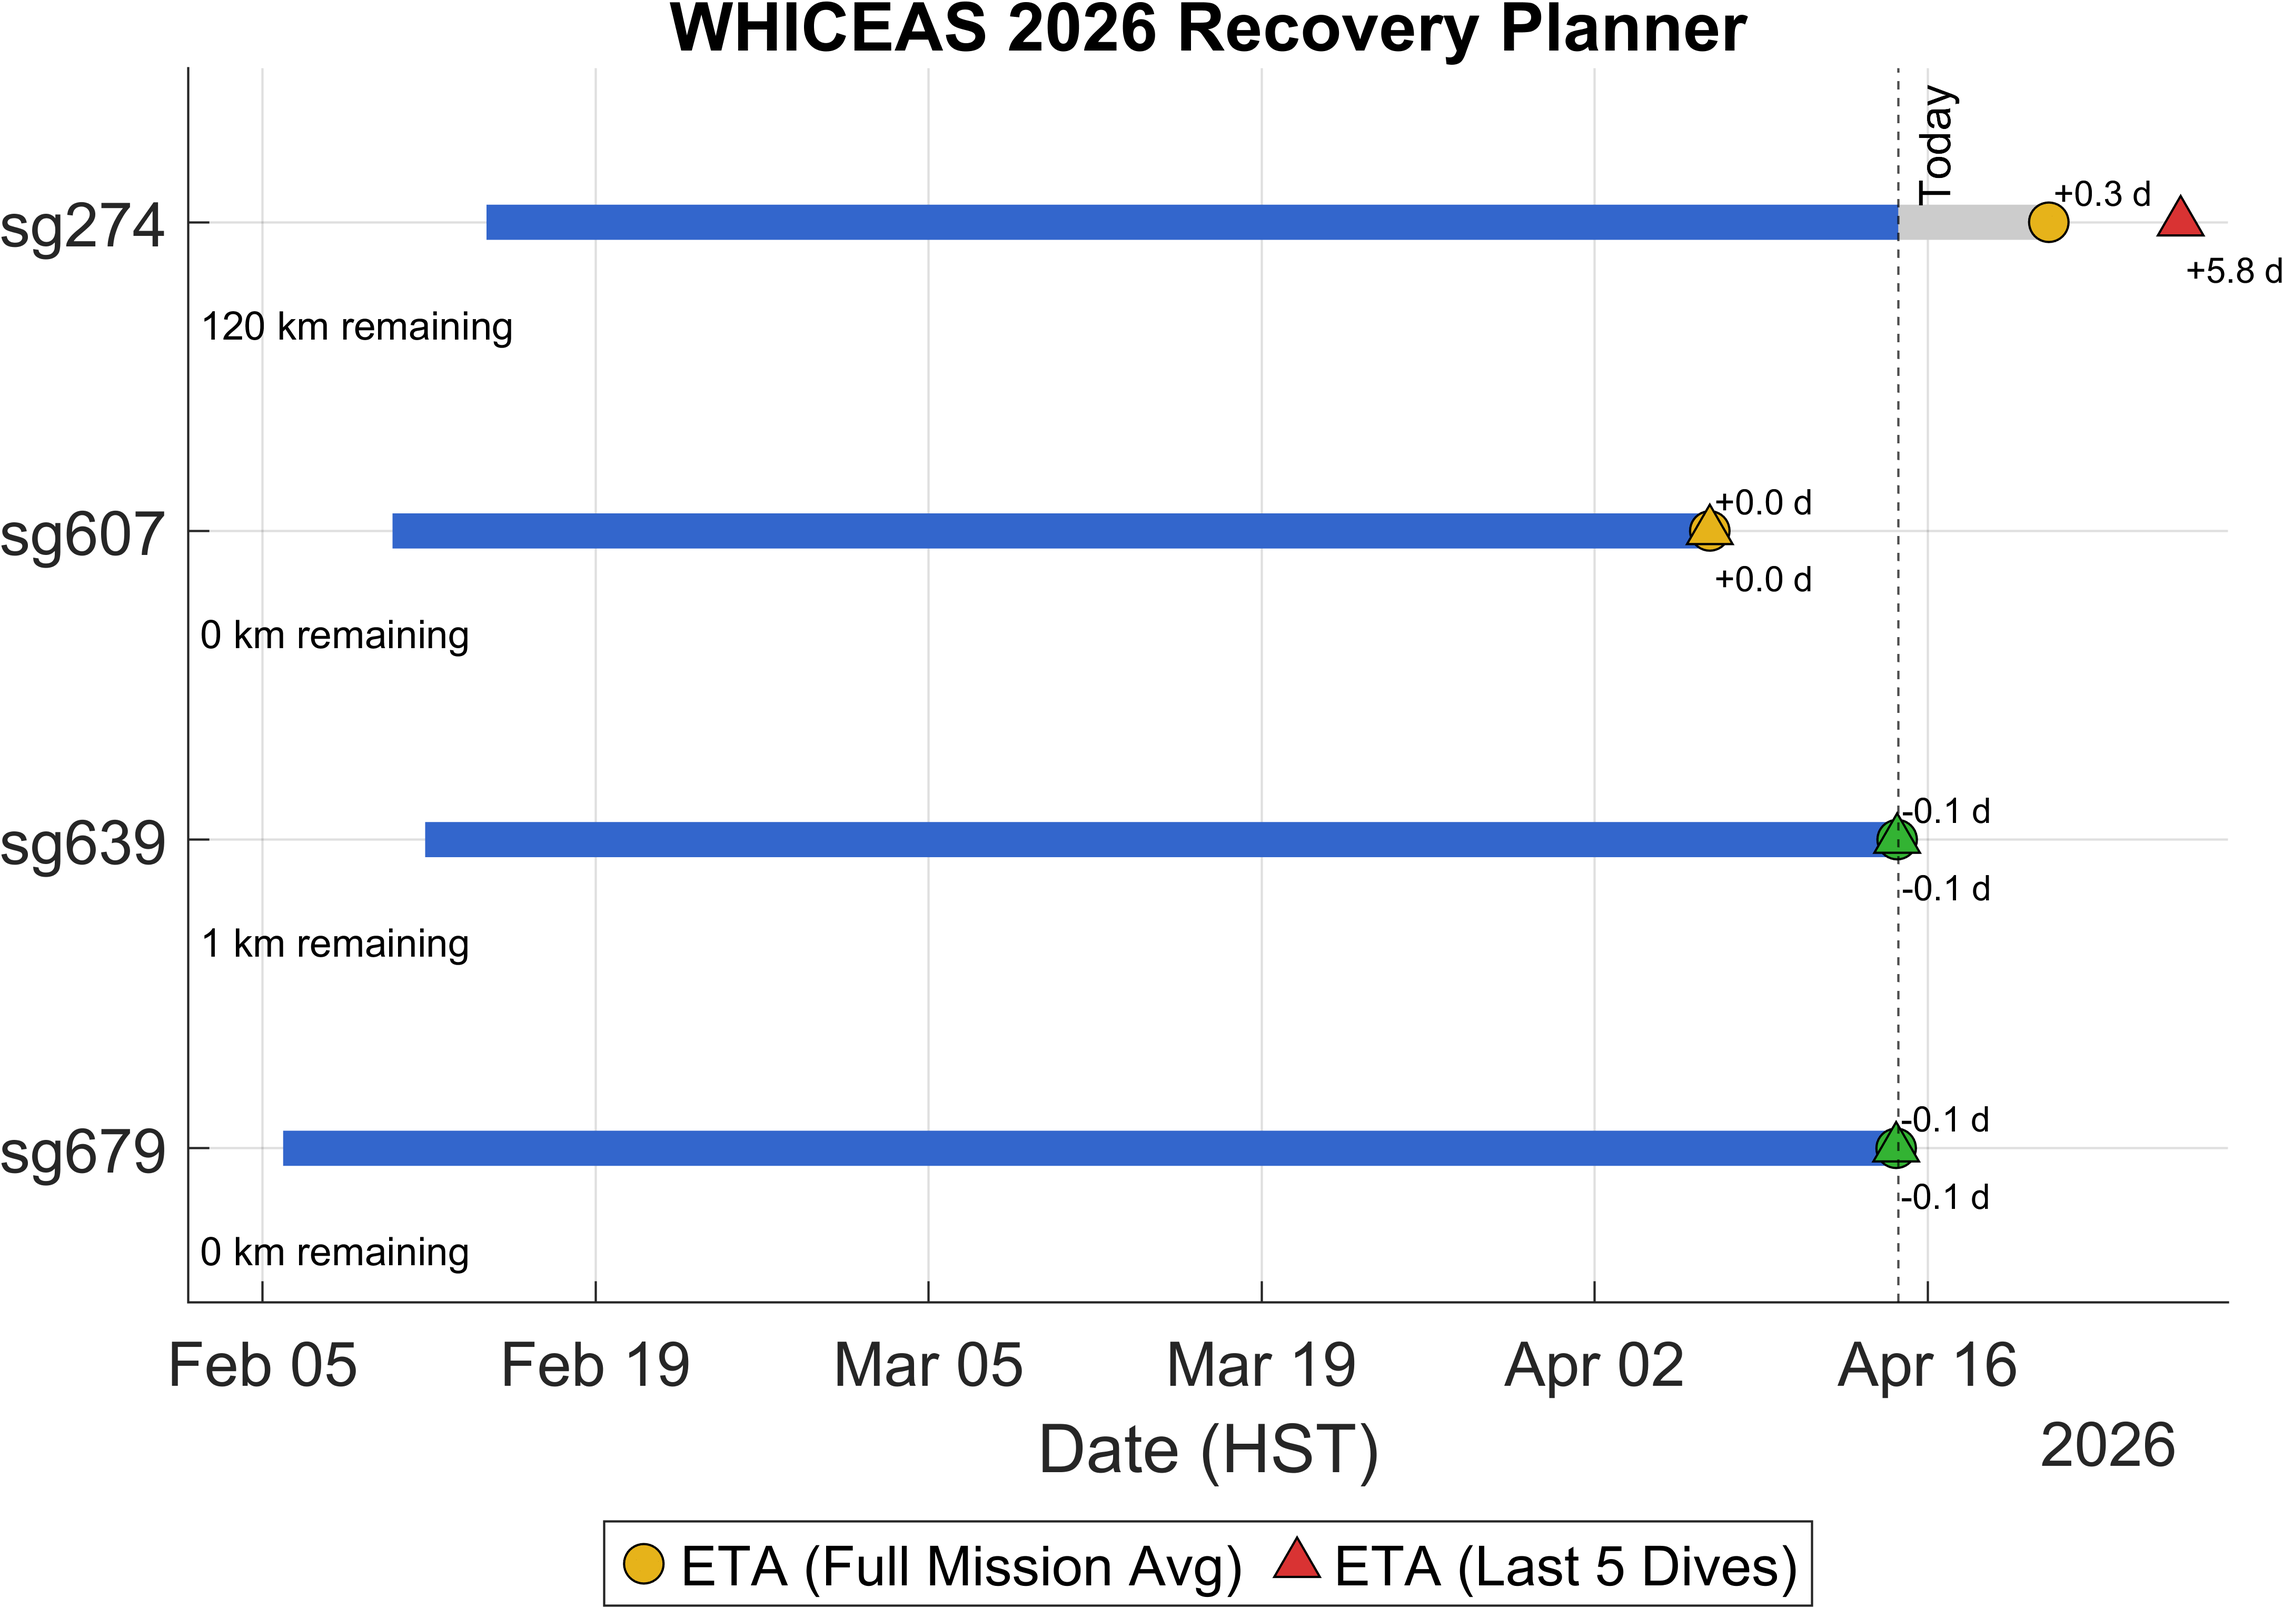
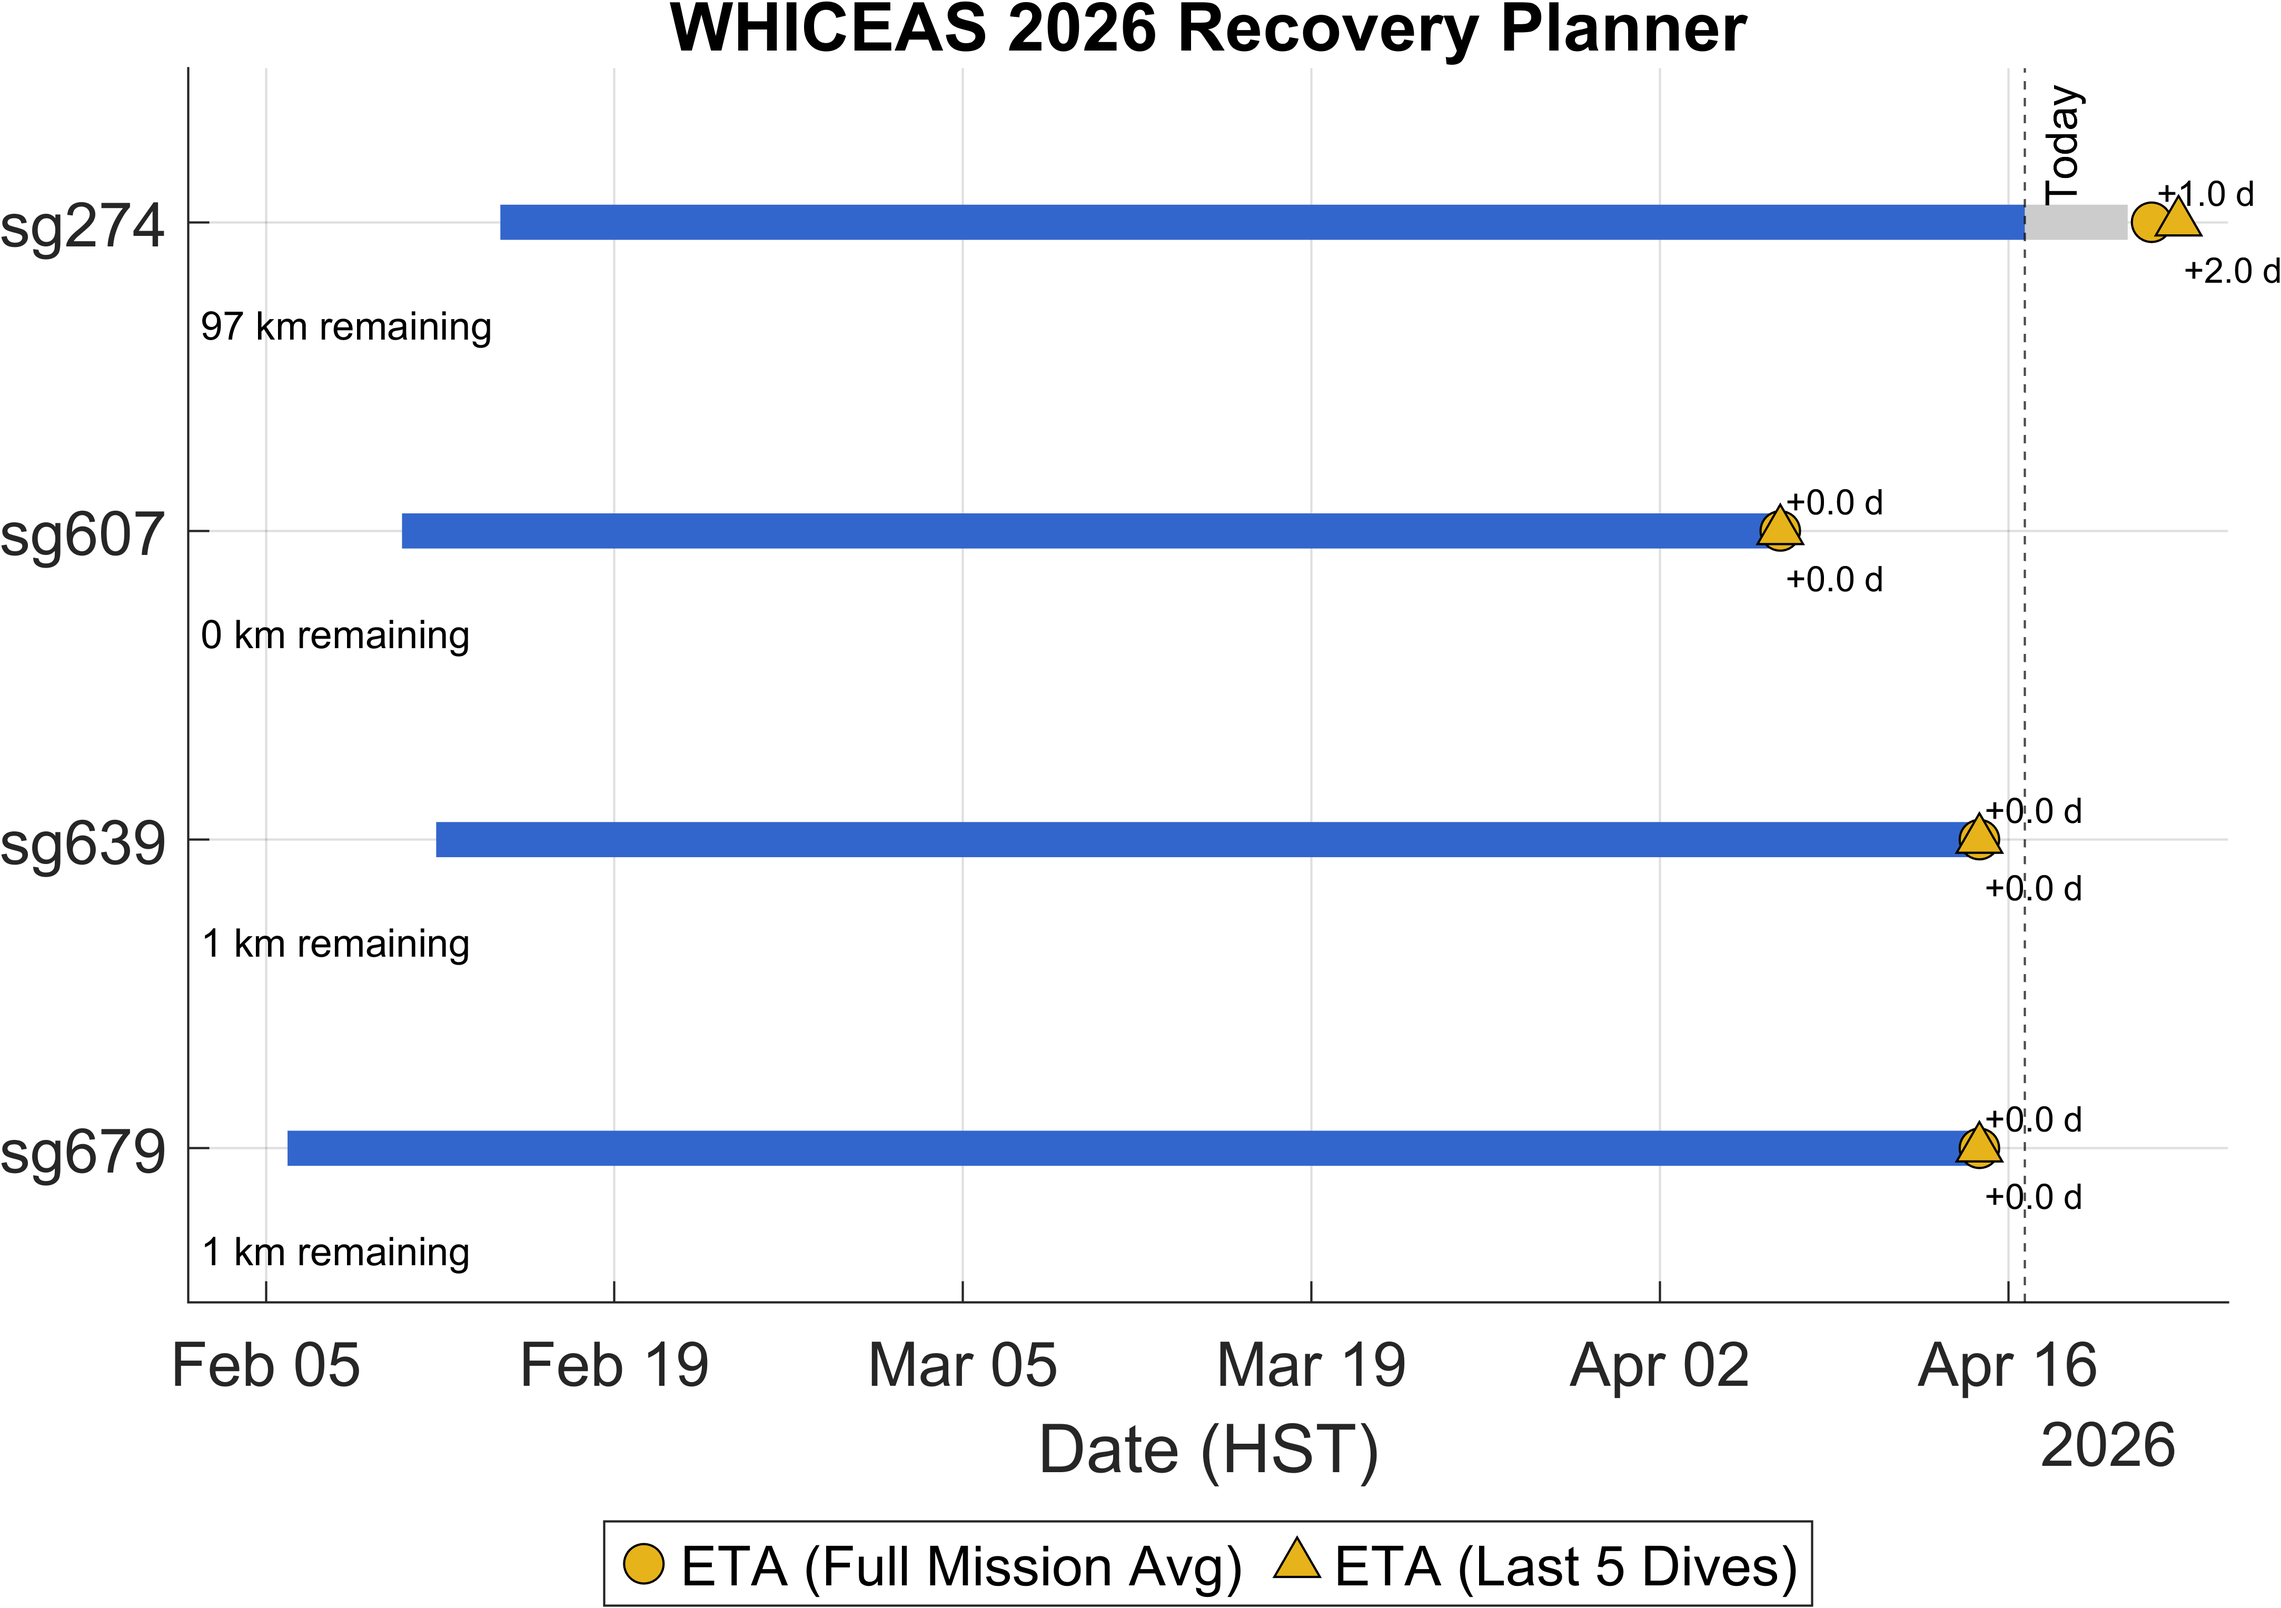
removed 639/679, latest run

diff --git a/matlab/WHICEAS_glider_downloads.m b/matlab/WHICEAS_glider_downloads.m
@@ -55,8 +55,12 @@ ppStruct.sg274 = workflow_downloadScript_sg274_20260128_WHICEAS(configFiles{1}, 
 % ppStruct.sg607 = workflow_downloadScript_sg607_20260128_WHICEAS(configFiles{2}, 0); % don't preload because of comms issues
 ppStruct.sg607 = load(fullfile(missionPaths{2}, 'flightStatus\diveTracking_sg607.mat'));
 ppStruct.sg607 = ppStruct.sg607.pp;
-ppStruct.sg639 = workflow_downloadScript_sg639_20260211_WHICEAS(configFiles{3}, 1);
-ppStruct.sg679 = workflow_downloadScript_sg679_20260205_WHICEAS(configFiles{4}, 1);
+% ppStruct.sg639 = workflow_downloadScript_sg639_20260211_WHICEAS(configFiles{3}, 1);
+ppStruct.sg639 = load(fullfile(missionPaths{3}, 'flightStatus\diveTracking_sg639.mat'));
+ppStruct.sg639 = ppStruct.sg639.pp;
+% ppStruct.sg679 = workflow_downloadScript_sg679_20260205_WHICEAS(configFiles{4}, 1);
+ppStruct.sg679 = load(fullfile(missionPaths{4}, 'flightStatus\diveTracking_sg679.mat'));
+ppStruct.sg679 = ppStruct.sg679.pp;
 
 %% create a travel metrics/status table and plot
 
